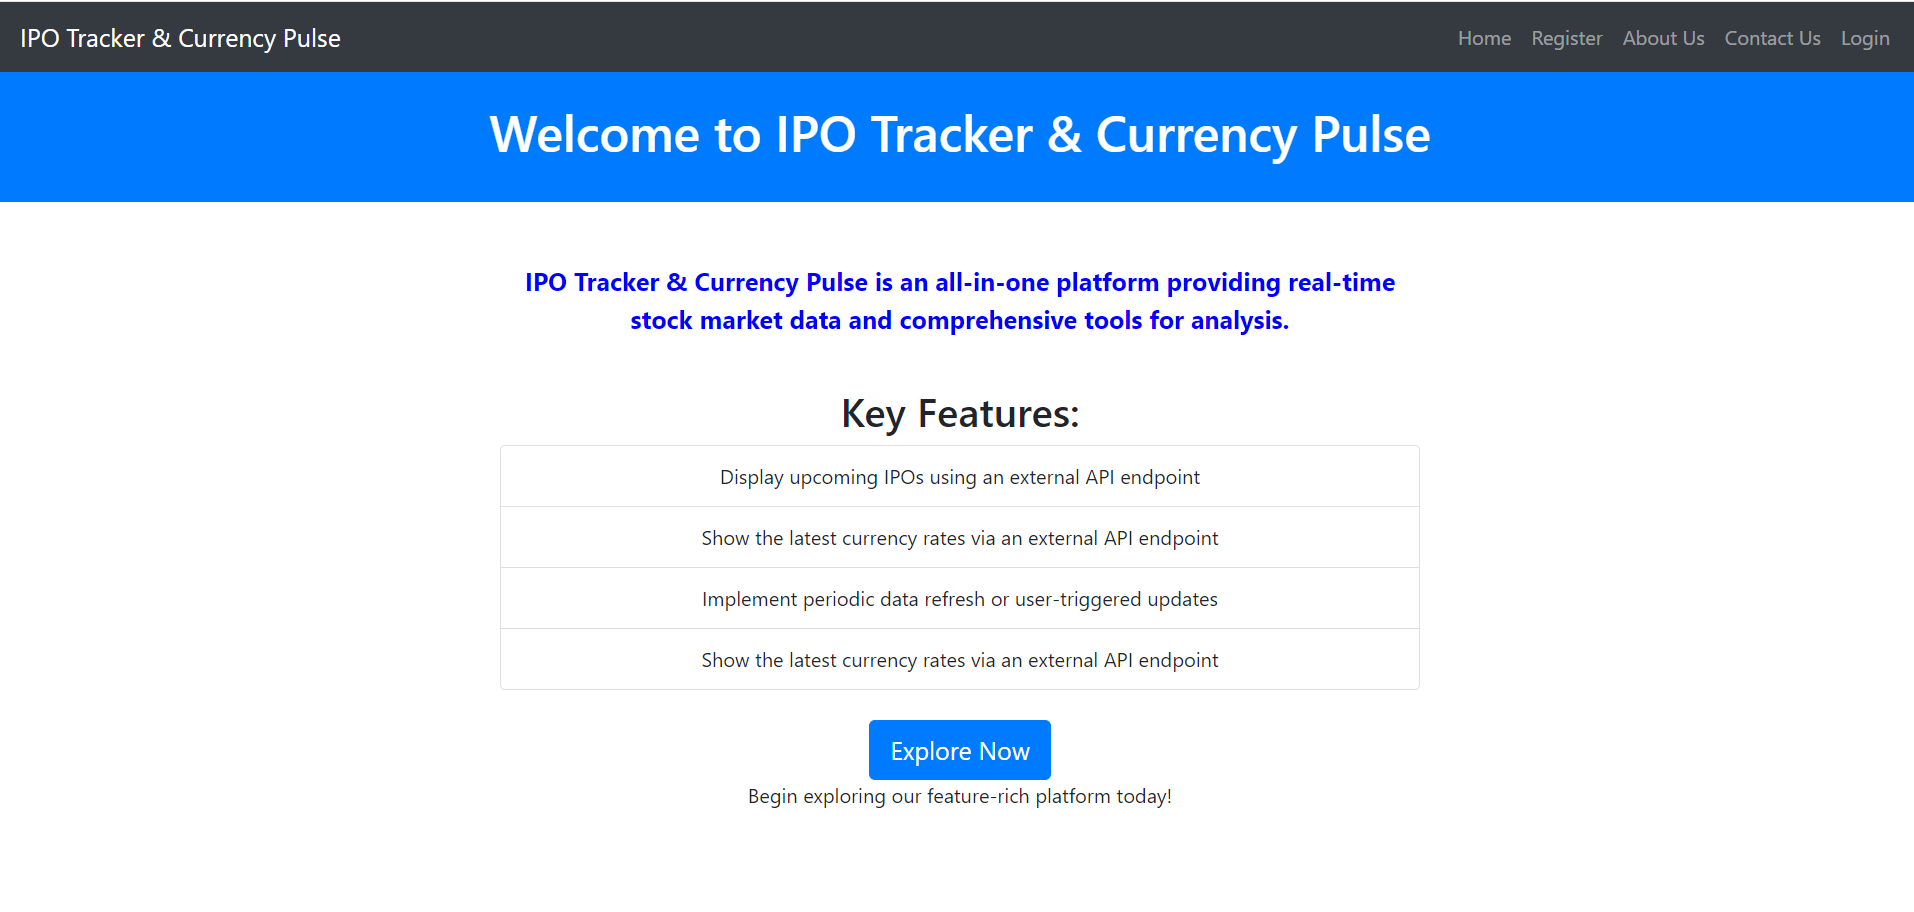
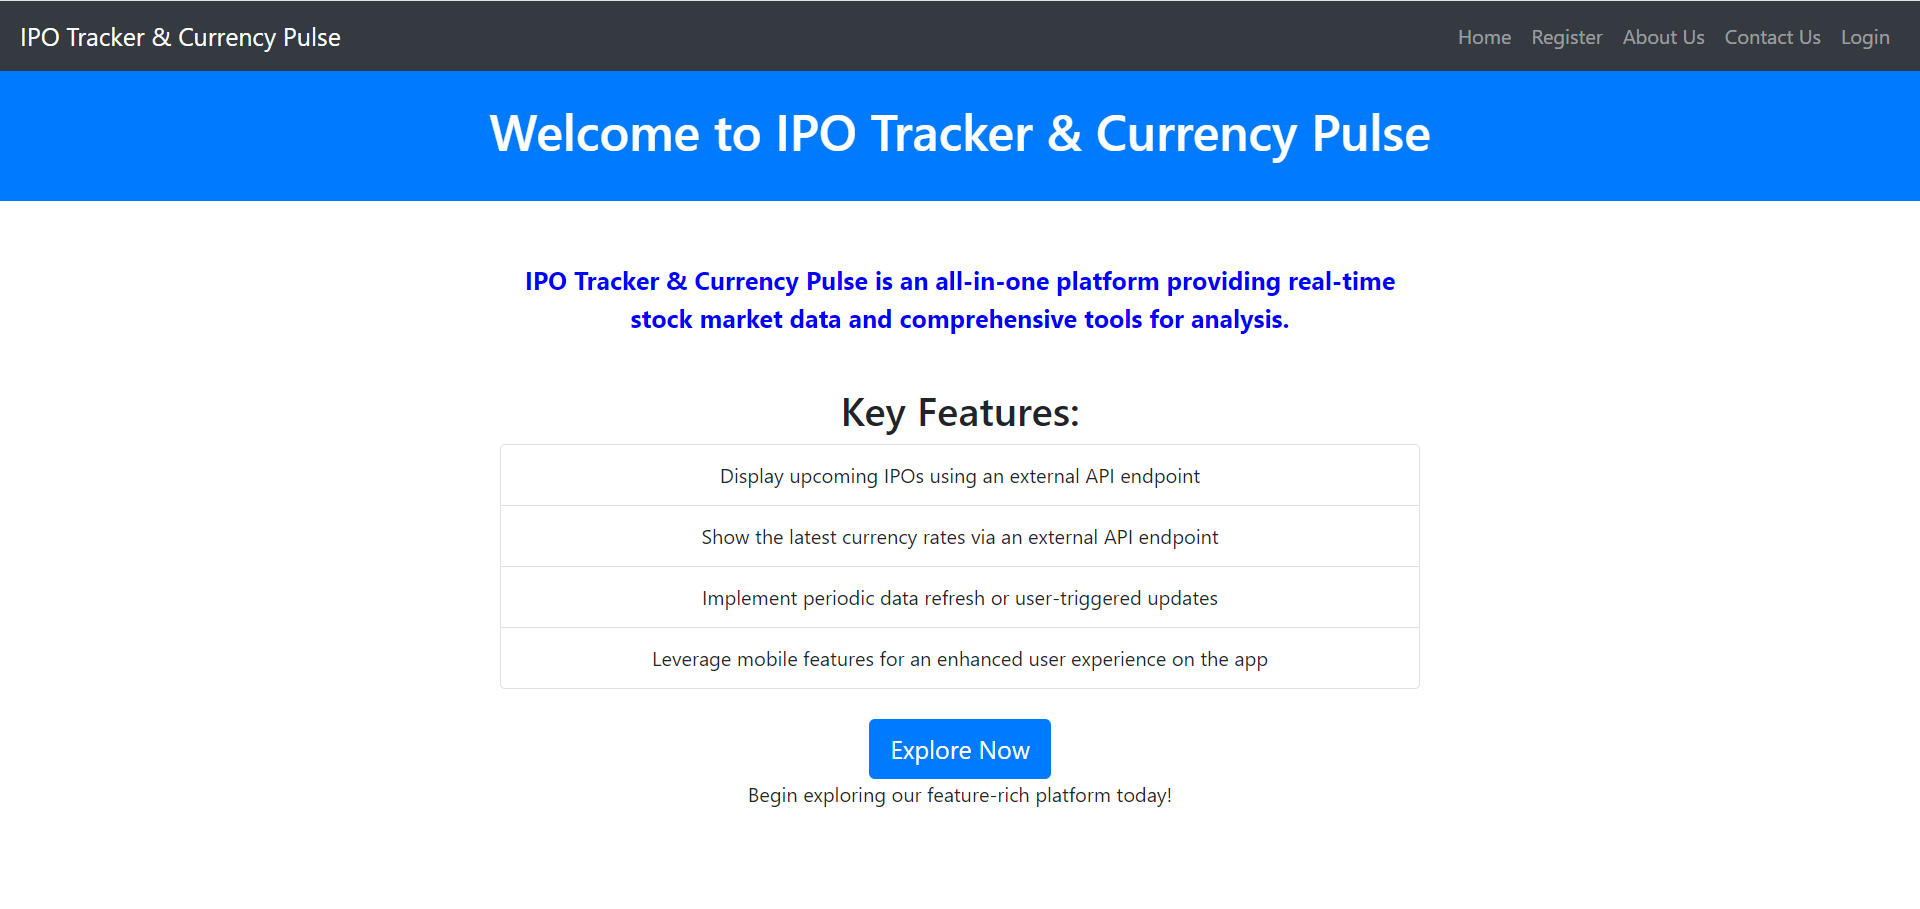
Updated key features

diff --git a/src/allComponents/Home.js b/src/allComponents/Home.js
@@ -27,7 +27,7 @@ const Home = () => {
                     <li className="list-group-item">Display upcoming IPOs using an external API endpoint</li>
                     <li className="list-group-item">Show the latest currency rates via an external API endpoint</li>
                     <li className="list-group-item">Implement periodic data refresh or user-triggered updates</li>
-                    <li className="list-group-item">Show the latest currency rates via an external API endpoint</li>
+                    <li className="list-group-item">Leverage mobile features for an enhanced user experience on the app</li>
                   </ul>
                   <br />
                   {isAuthenticated ? (
